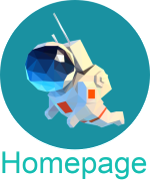
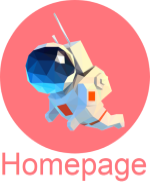
profile pic updated

diff --git a/index.md b/index.md
@@ -6,7 +6,7 @@ header:
 ---
 
 
-**Welcome to Jordan's Github Page!**
+**Welcome to Jordan's Github Page!**  &nbsp;&nbsp;&nbsp;&nbsp; ![](/images/source/icon2.png)
 
 
 This is my Github Page published to showcase my data analysis portfolio.
